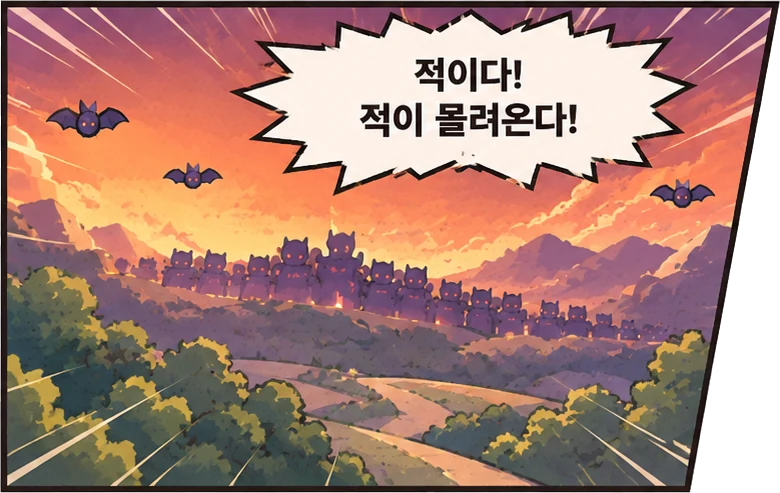
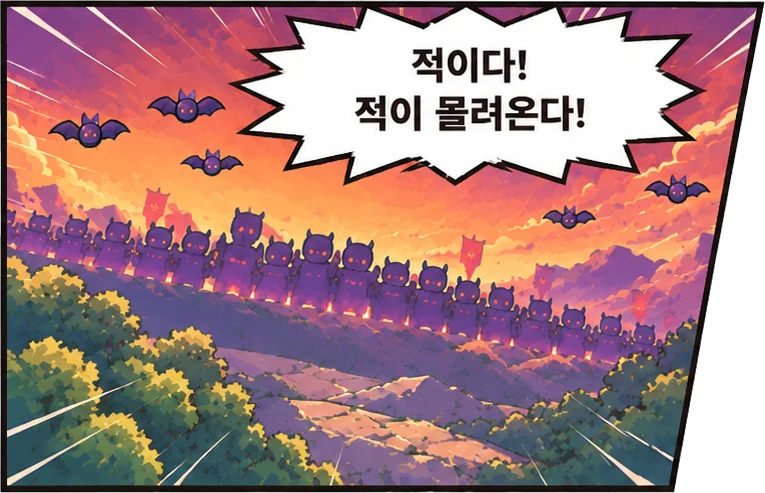
오프닝 만화 컷 이미지를 새 버전으로 교체

diff --git a/index.html b/index.html
@@ -153,8 +153,8 @@ table.rank .mtag { font-size: 10px; color: #ffd166; border: 1px solid #ffd16688;
 #comic.hidden { display: none; } #comic.out { opacity: 0; }
 #comicStage { position: relative; width: min(97vw, calc((100vh - 62px) * 1.5988)); aspect-ratio: 1586 / 992; margin-bottom: 40px; } /* 아래 40px은 안내 문구 자리 */
 .cp { position: absolute; height: auto; opacity: 0; pointer-events: none; filter: drop-shadow(0 4px 8px rgba(40,30,10,.35)); will-change: transform, opacity; }
-.cp[data-i="1"] { left: .5%; top: 1.1%; width: 60.6%; } .cp[data-i="2"] { left: 56.7%; top: .9%; width: 42.8%; }
-.cp[data-i="3"] { left: .7%; top: 48.8%; width: 49.2%; } .cp[data-i="4"] { left: 45.3%; top: 48.9%; width: 54.2%; }
+.cp[data-i="1"] { left: .57%; top: 1.31%; width: 59.9%; } .cp[data-i="2"] { left: 56.94%; top: 1.11%; width: 42.56%; }
+.cp[data-i="3"] { left: .63%; top: 48.39%; width: 48.23%; } .cp[data-i="4"] { left: 44.14%; top: 48.49%; width: 55.36%; }
 .cp.in { opacity: 1; }
 .cp[data-i="1"].in { animation: cpFade 1s ease-out both; }
 .cp[data-i="2"].in { animation: cpRight .5s cubic-bezier(.2,1.3,.4,1) both; }
@@ -227,7 +227,7 @@ table.rank .mtag { font-size: 10px; color: #ffd166; border: 1px solid #ffd16688;
   <div class="bb-track"><div id="bossFill"></div></div>
   <div id="bossState"></div>
 </div>
-<div id="comic" class="hidden"><div id="comicStage"><img class="cp" data-i="1" src="assets/comic1.webp" alt=""><img class="cp" data-i="2" src="assets/comic2.webp" alt=""><img class="cp" data-i="3" src="assets/comic3.webp" alt=""><img class="cp" data-i="4" src="assets/comic4.webp" alt=""></div><div id="comicFlash"></div><div id="comicLines"></div><div id="comicHint">화면을 터치하면 다음 컷 ▶</div><button class="btn" id="comicSkip">건너뛰기</button></div>
+<div id="comic" class="hidden"><div id="comicStage"><img class="cp" data-i="1" src="assets/comic1.webp?v=2" alt=""><img class="cp" data-i="2" src="assets/comic2.webp?v=2" alt=""><img class="cp" data-i="3" src="assets/comic3.webp?v=2" alt=""><img class="cp" data-i="4" src="assets/comic4.webp?v=2" alt=""></div><div id="comicFlash"></div><div id="comicLines"></div><div id="comicHint">화면을 터치하면 다음 컷 ▶</div><button class="btn" id="comicSkip">건너뛰기</button></div>
 <div id="modeBar" class="panel"><button data-mode="normal" class="on">기본</button><button data-mode="free">자유</button></div>
 <div id="bossIntro" class="hidden"><canvas id="biCv" width="240" height="240"></canvas><div><div class="bi-tag">BOSS</div><div id="biName"></div><div id="biLine"></div></div></div>
 <div id="newEnemy" class="hidden"><canvas id="neCv" width="88" height="88"></canvas><div class="ne-txt"><div class="ne-tag">새로운 적</div><div id="neName"></div><div id="neDesc"></div></div></div>
